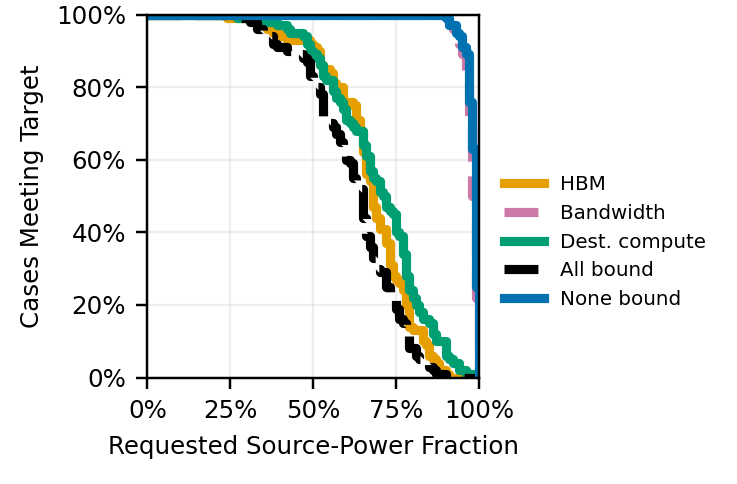
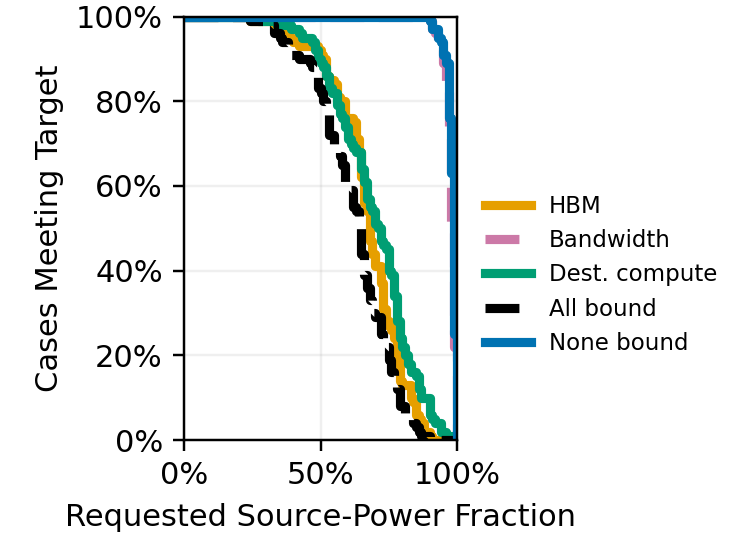
Increase compact workload figure typography

Changed region(s): [[0.0312, 0.0, 0.9674, 0.9607]]

diff --git a/agent-migrate/queue-haul/workload_power_frontier.py b/agent-migrate/queue-haul/workload_power_frontier.py
@@ -28,7 +28,7 @@ SOLVERS = {"queue_haul_lp": "lp_highs"}
 CAPACITY_SOLVER = "max_shed_capacity"
 CAPACITY_ORDER_TOLERANCE = 4 * MAX_SHED_CAPACITY_GAP
 DISPLAY_STATES = adaptation.DISPLAY_CASES
-FIGSIZE = (3.35, 2.2)
+FIGSIZE = (3.35, 2.5)
 plot_style.apply()
 
 
@@ -267,14 +267,14 @@ def write_capacity_plot(summary, out):
              ylabel="Cases Meeting Target")
     axis.xaxis.set_major_formatter(PercentFormatter(1))
     axis.yaxis.set_major_formatter(PercentFormatter(1))
-    axis.tick_params(labelsize=8)
-    axis.xaxis.label.set_size(8)
-    axis.yaxis.label.set_size(8)
+    axis.tick_params(labelsize=10)
+    axis.xaxis.label.set_size(10)
+    axis.yaxis.label.set_size(10)
     axis.grid(alpha=.2)
     handles, labels = axis.get_legend_handles_labels()
-    fig.legend(handles, labels, frameon=False, fontsize=6.5, ncol=1,
-               loc="center left", bbox_to_anchor=(.66, .5))
-    fig.subplots_adjust(left=.2, right=.65, bottom=.22, top=.97)
+    fig.legend(handles, labels, frameon=False, fontsize=7.5, ncol=1,
+               loc="center left", bbox_to_anchor=(.63, .5))
+    fig.subplots_adjust(left=.25, right=.62, bottom=.2, top=.97)
     for suffix in ("png", "pdf"):
         fig.savefig(out.with_suffix(f".{suffix}"), dpi=plot_style.SAVE_DPI)
     plt.close(fig)

diff --git a/agent-migrate/queue-haul/workload_adaptation_campaign.py b/agent-migrate/queue-haul/workload_adaptation_campaign.py
@@ -841,7 +841,7 @@ def action_mix_means(rows):
 
 
 def plot(rows, path):
-    fig, axis = plt.subplots(figsize=(3.85, 2.1))
+    fig, axis = plt.subplots(figsize=(3.85, 2.5))
     labels = {case_id: label for case_id, label, _ in factorial_cases()}
     values_by_action = action_mix_means(rows)
     left = np.zeros(len(DISPLAY_CASES))
@@ -861,14 +861,14 @@ def plot(rows, path):
     )
     axis.invert_yaxis()
     axis.grid(axis="x", alpha=.2)
-    axis.tick_params(labelsize=8)
-    axis.xaxis.label.set_size(8)
+    axis.tick_params(labelsize=10)
+    axis.xaxis.label.set_size(10)
     handles, labels = axis.get_legend_handles_labels()
     fig.legend(
         handles, labels, frameon=False, ncol=2, loc="lower center",
-        bbox_to_anchor=(.58, .01), fontsize=7, handlelength=1.8,
+        bbox_to_anchor=(.58, .01), fontsize=9, handlelength=1.8,
     )
-    fig.subplots_adjust(left=.34, right=.95, bottom=.4, top=.98)
+    fig.subplots_adjust(left=.34, right=.95, bottom=.36, top=.98)
     for suffix in ("png", "pdf"):
         fig.savefig(path.with_suffix(f".{suffix}"), dpi=plot_style.SAVE_DPI)
     plt.close(fig)

diff --git a/agent-migrate/queue-haul/tests/test_workload_adaptation_campaign.py b/agent-migrate/queue-haul/tests/test_workload_adaptation_campaign.py
@@ -584,7 +584,7 @@ def test_action_mix_figure_has_half_column_canvas(tmp_path):
     campaign.plot(rows, tmp_path / "mix")
     image = campaign.plt.imread(tmp_path / "mix.png")
 
-    assert image.shape[:2] == (2.1 * campaign.plot_style.SAVE_DPI,
+    assert image.shape[:2] == (2.5 * campaign.plot_style.SAVE_DPI,
                                3.85 * campaign.plot_style.SAVE_DPI)
     assert len({campaign.plot_style.ACTION_HATCHES[action]
                 for action in campaign.ACTIONS}) == len(campaign.ACTIONS)

diff --git a/agent-migrate/queue-haul/tests/test_workload_power_frontier.py b/agent-migrate/queue-haul/tests/test_workload_power_frontier.py
@@ -47,7 +47,7 @@ def test_capacity_figure_has_half_column_canvas(tmp_path):
     image = adaptation.plt.imread(tmp_path / "frontier.png")
 
     assert image.shape[:2] == tuple(int(value * adaptation.plot_style.SAVE_DPI)
-                                    for value in (2.2, 3.35))
+                                    for value in (2.5, 3.35))
 
 
 def test_raw_lp_endpoint_explicitly_requests_its_maximum_fallback():
